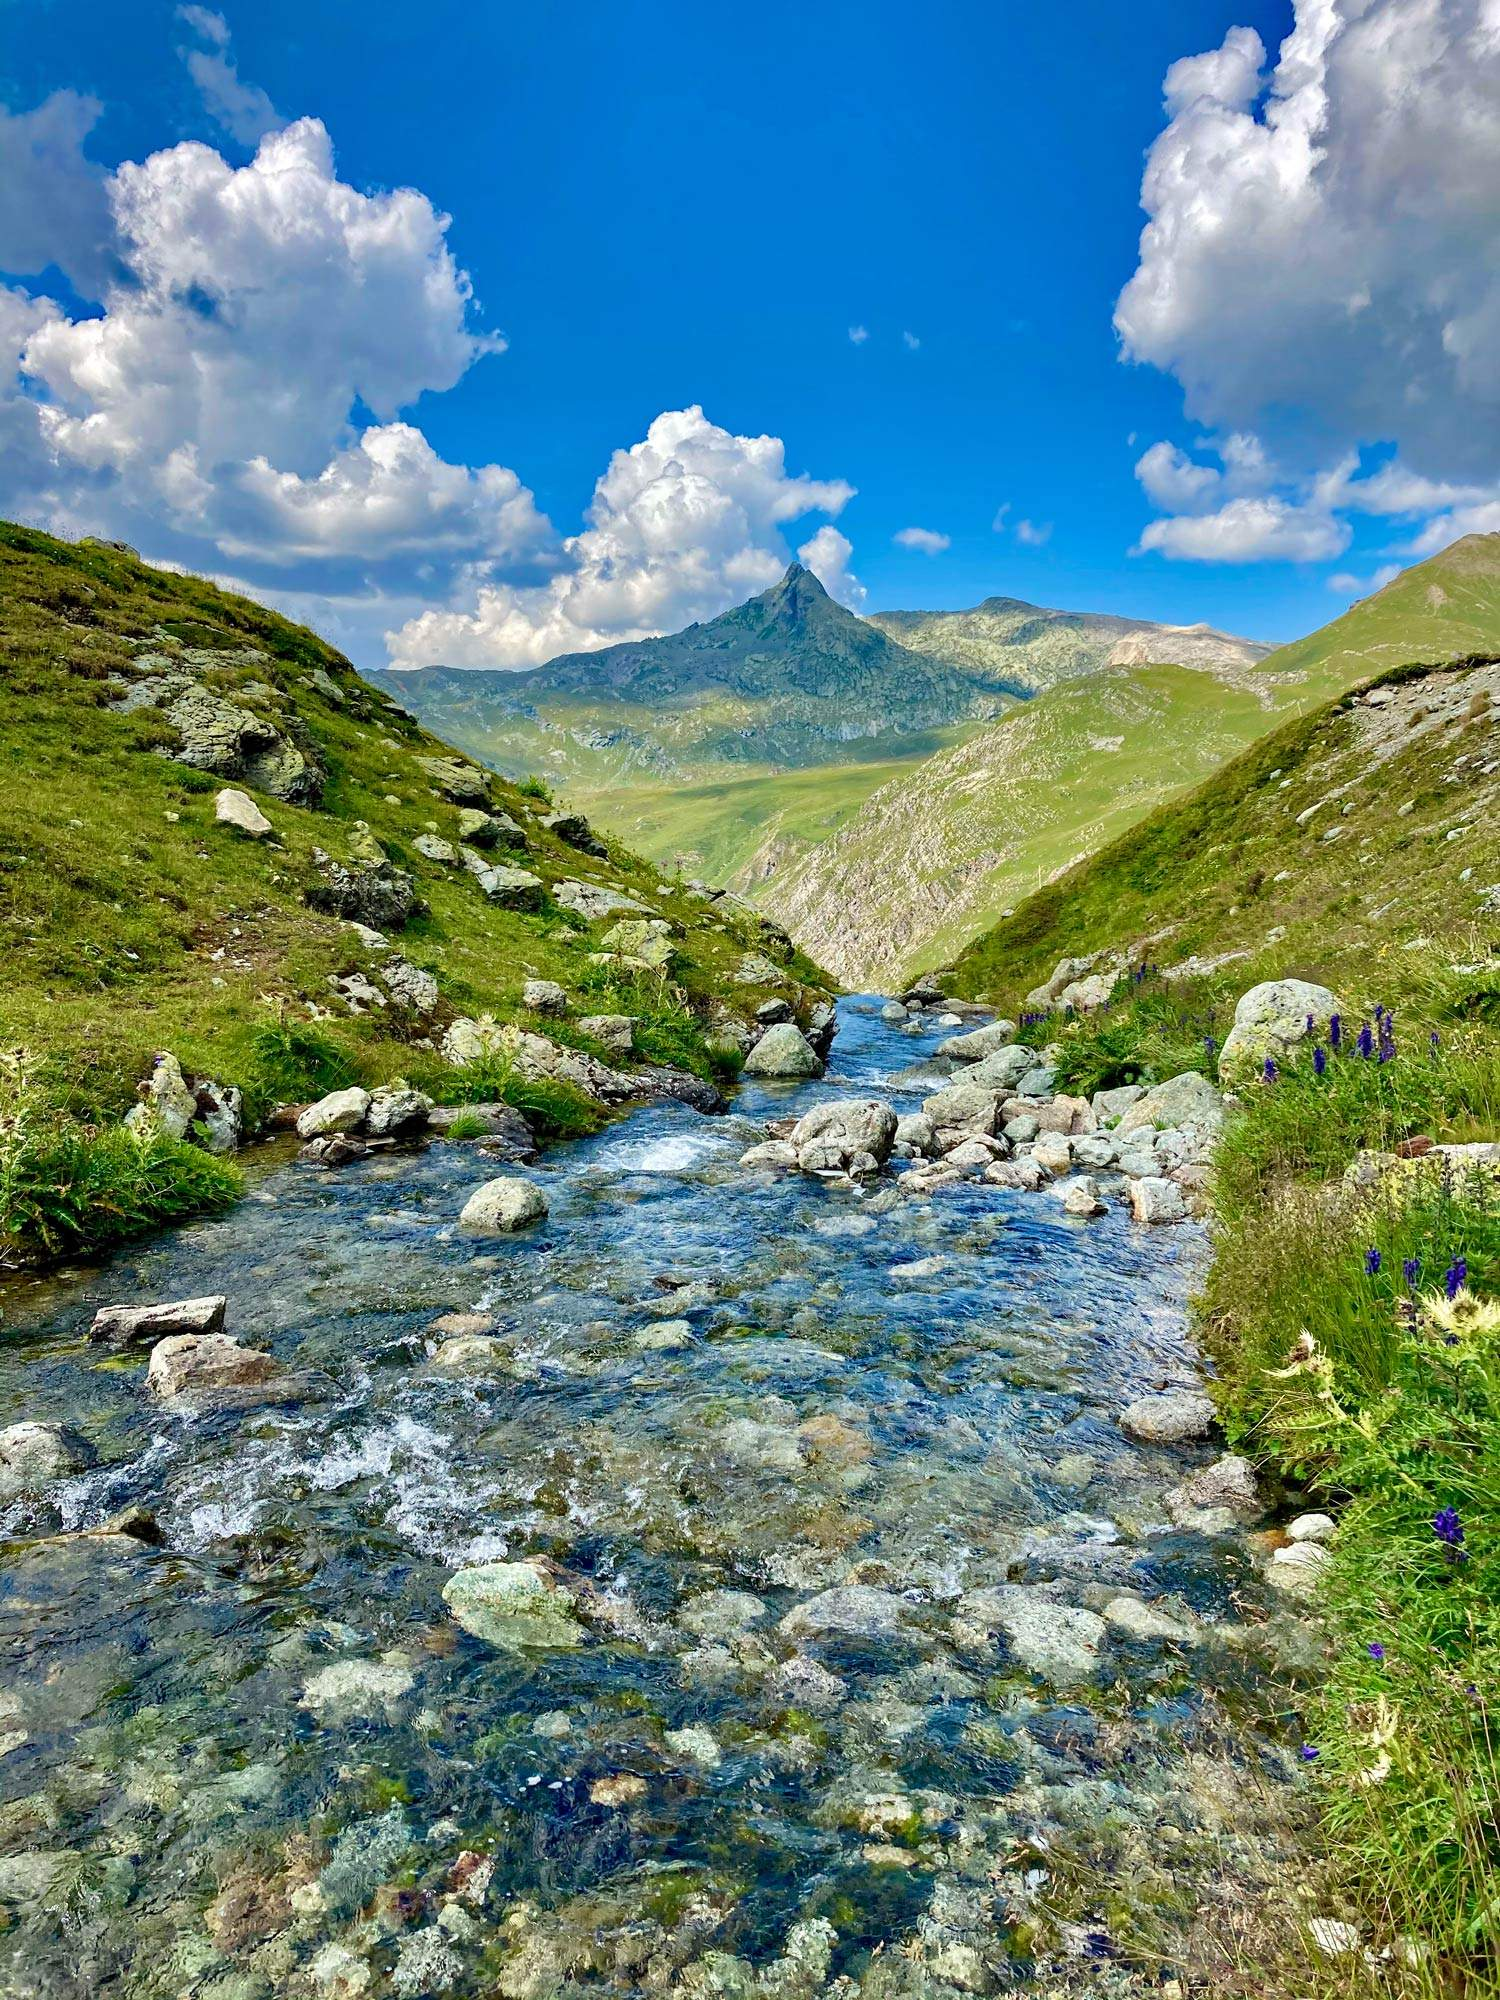
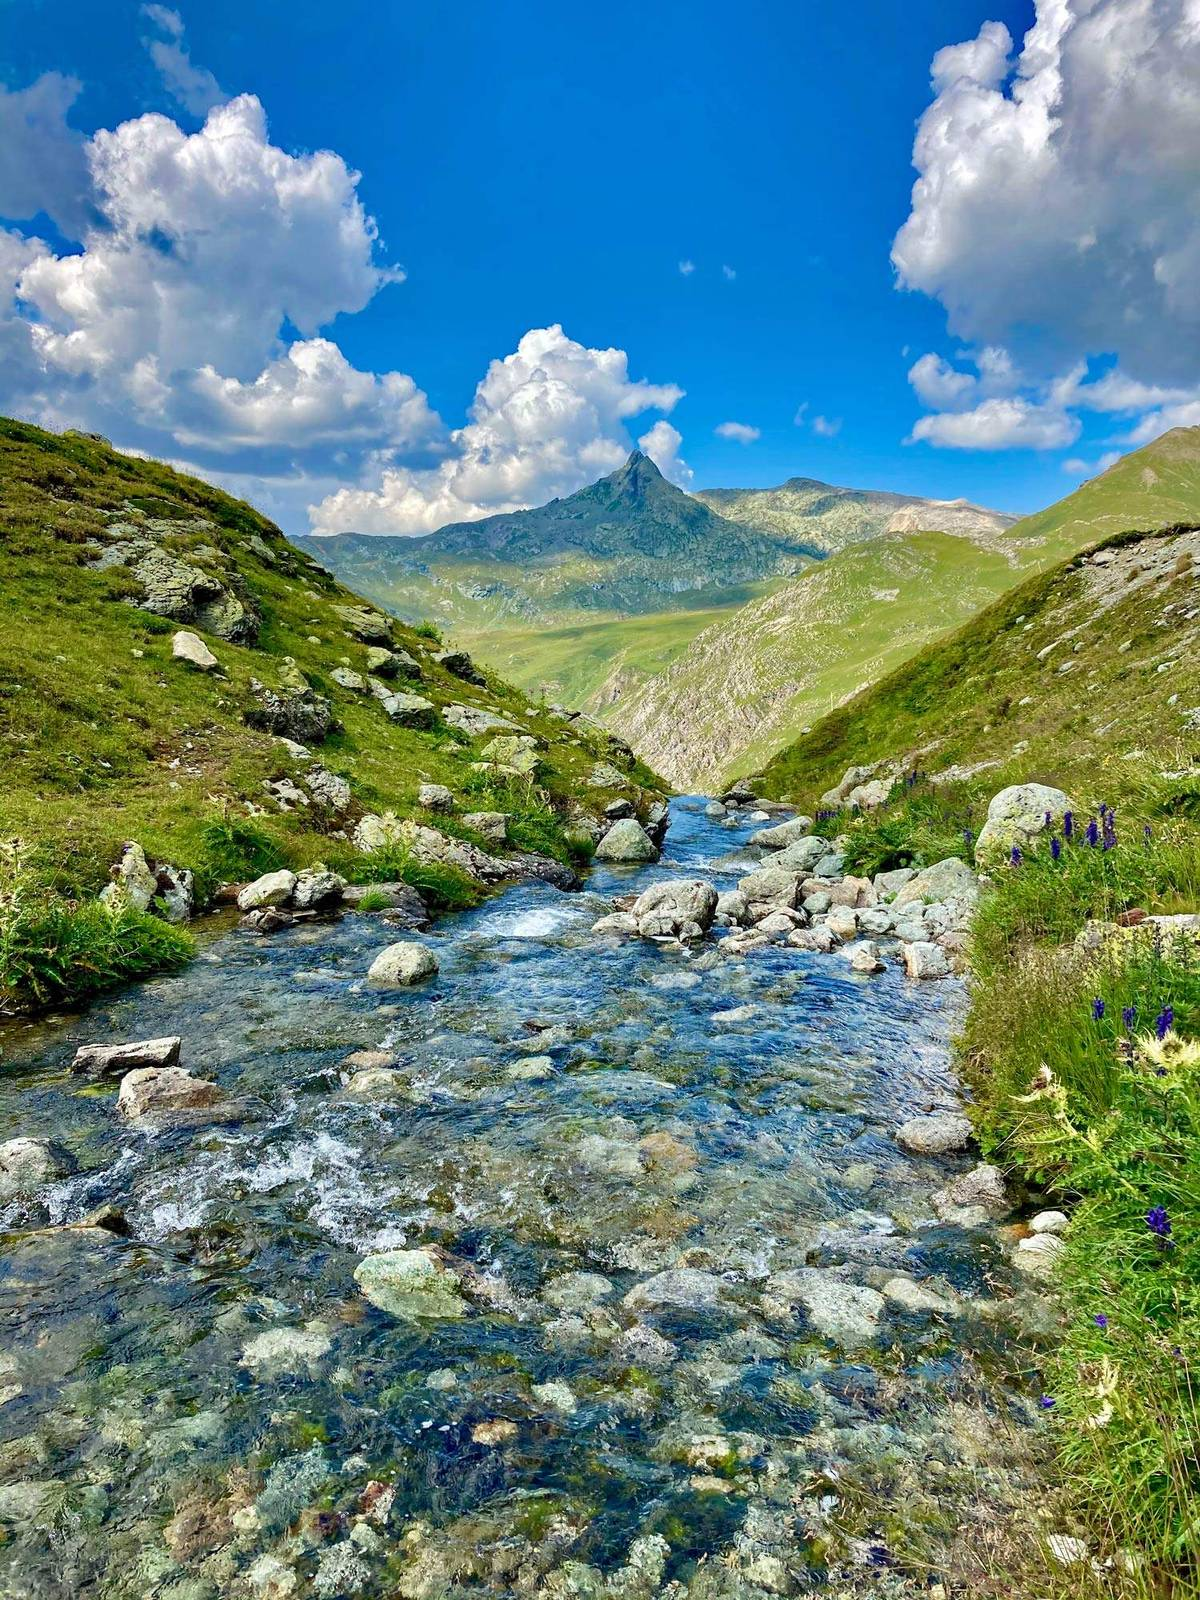
feat: visible FAQ, winter-arrival hint, security headers, meta hygiene
- FAQ section rendered visibly (details/summary, linen, before Kontakt),
  FAQPage JSON-LD derived from the same content.faq source; nav gains
  'Fragen' (verified: no header wrap at 768-880px)
- contact form shows winter-arrival notice for arrival dates Nov-Mar
  (road closed, winterbus/sledge/ski/foot from Savognin)
- Anreise section: travel times (Chur ~45min, Zurich ~2h to Savognin),
  public transport route, external Google Maps link (no embed, CSP-free)
- LodgingBusiness schema: checkinTime 15:00 / checkoutTime 10:00
- security headers via next.config headers(): nosniff, X-Frame-Options
  DENY, Referrer-Policy, Permissions-Policy, same-origin CSP
- OG images re-exported at standard 1200x630 (center-crop from hero
  sources, road kept visible), declarations updated; meta keywords
  removed (inert)
- region-bach.jpeg resized 1500x2000 -> 1200x1600 q70 (640KB -> 454KB)
- llms.txt: season lines match new price table, check-in/out added

Both editions verified via SEASON_OVERRIDE round-trip; viewports
1440/820/393 checked (no h-scroll, calendar past weeks inert).

diff --git a/src/app/page.tsx b/src/app/page.tsx
@@ -1,6 +1,7 @@
 import type { Metadata } from 'next'
 import { Anreise } from '@/components/Anreise'
 import { Familienleben } from '@/components/Familienleben'
+import { Faq } from '@/components/Faq'
 import { Footer } from '@/components/Footer'
 import { Gastgeber } from '@/components/Gastgeber'
 import { Header } from '@/components/Header'
@@ -16,7 +17,7 @@ import { Verfuegbarkeit } from '@/components/Verfuegbarkeit'
 import { Winterteaser } from '@/components/Winterteaser'
 import { Wohnen } from '@/components/Wohnen'
 import { SITE_DESCRIPTION, SITE_TITLE, SITE_URL } from '@/app/layout'
-import { anreise, chf, chfWoche, hero, kontakt, preisWerte } from '@/lib/content'
+import { faq, hero, kontakt, preisWerte } from '@/lib/content'
 import { getSeason } from '@/lib/season'
 
 // ISR: die Route rendert stündlich neu. Das ist die Voraussetzung dafür, dass die
@@ -32,13 +33,13 @@ export async function generateMetadata(): Promise<Metadata> {
       ? {
           url: '/images/og-image-winter.jpg',
           width: 1200,
-          height: 553,
+          height: 630,
           alt: hero.winter.alt,
         }
       : {
           url: '/images/og-image.jpg',
           width: 1200,
-          height: 553,
+          height: 630,
           alt: hero.sommer.alt,
         }
   return {
@@ -94,6 +95,10 @@ const jsonLd = {
   numberOfRooms: 3,
   numberOfBathroomsTotal: 2,
   maximumAttendeeCapacity: preisWerte.capacityMax,
+  // Wechseltag Samstag: Anreise ab 15 Uhr, Abreise bis 10 Uhr (sichtbar in der
+  // FAQ-Sektion, hier maschinenlesbar für die Suche).
+  checkinTime: '15:00',
+  checkoutTime: '10:00',
   petsAllowed: true,
   knowsLanguage: ['de-CH'],
   priceRange: `CHF ${preisWerte.min} bis ${preisWerte.max} pro Nacht`,
@@ -172,67 +177,20 @@ const jsonLd = {
   },
 }
 
+// FAQ-Markup aus derselben Quelle wie die sichtbare Sektion (Faq.tsx). Google
+// akzeptiert FAQPage nur mit sichtbarem Inhalt; aus content.faq abgeleitet
+// können Markup und Seite nicht auseinanderlaufen.
 const faqLd = {
   '@context': 'https://schema.org',
   '@type': 'FAQPage',
-  mainEntity: [
-    {
-      '@type': 'Question',
-      name: 'Für wie viele Personen ist das Maiensäss Acla Viglia?',
-      acceptedAnswer: {
-        '@type': 'Answer',
-        text: 'Das ganze Maiensäss bietet Platz für 2 bis 8 Personen: ein Doppelzimmer, ein Dreierzimmer und zwei Doppelmatratzen auf der Dachgalerie.',
-      },
+  mainEntity: faq.items.map((item) => ({
+    '@type': 'Question',
+    name: item.frage,
+    acceptedAnswer: {
+      '@type': 'Answer',
+      text: item.antwort,
     },
-    {
-      '@type': 'Question',
-      name: 'Wie komme ich im Sommer nach Radons?',
-      acceptedAnswer: {
-        '@type': 'Answer',
-        text: anreise.sommer.text,
-      },
-    },
-    {
-      '@type': 'Question',
-      name: 'Wie ist die Anreise im Winter?',
-      acceptedAnswer: {
-        '@type': 'Answer',
-        text: anreise.winter.text,
-      },
-    },
-    {
-      '@type': 'Question',
-      name: 'Was kostet das Maiensäss?',
-      acceptedAnswer: {
-        '@type': 'Answer',
-        text: `Das ganze Haus kostet ab ${chf(preisWerte.min)} pro Nacht für bis zu ${preisWerte.personsBase} Personen, je nach Saison bis ${chf(preisWerte.max)}. Eine Woche von Samstag bis Samstag sind ${preisWerte.nightsPerWeek} Nächte, also ab ${chfWoche(preisWerte.min)}. Jede weitere erwachsene Person ${chf(preisWerte.extraPerson)} pro Nacht. Nicht enthalten sind Endreinigung, Wäsche und Kurtaxen.`,
-      },
-    },
-    {
-      '@type': 'Question',
-      name: 'Sind Haustiere erlaubt?',
-      acceptedAnswer: {
-        '@type': 'Answer',
-        text: 'Ja, Haustiere sind nach Absprache erlaubt.',
-      },
-    },
-    {
-      '@type': 'Question',
-      name: 'Gibt es WLAN im Maiensäss?',
-      acceptedAnswer: {
-        '@type': 'Answer',
-        text: 'Ja, im Maiensäss ist WLAN vorhanden.',
-      },
-    },
-    {
-      '@type': 'Question',
-      name: 'Wie läuft die Buchung ab?',
-      acceptedAnswer: {
-        '@type': 'Answer',
-        text: 'Sie senden eine unverbindliche Anfrage über das Formular oder per E-Mail. Angela oder Gallus antworten persönlich.',
-      },
-    },
-  ],
+  })),
 }
 
 export default function Home() {
@@ -253,6 +211,7 @@ export default function Home() {
         <Verfuegbarkeit />
         <Anreise />
         <Winterteaser />
+        <Faq />
         <Kontakt />
       </main>
       <Footer />

diff --git a/src/components/Faq.tsx b/src/components/Faq.tsx
@@ -1,0 +1,41 @@
+import { faq } from '@/lib/content'
+
+// Sichtbare FAQ-Sektion. Inhalt kommt aus content.ts (faq) und speist dort
+// auch das FAQPage-JSON-LD in page.tsx: eine Quelle, kein Drift. Position im
+// Farbrhythmus: zwischen Winterteaser (parchment) und Kontakt (charcoal),
+// deshalb linen.
+export function Faq() {
+  return (
+    <section
+      id="faq"
+      className="bg-linen pt-14 md:pt-20 lg:pt-28 pb-14 md:pb-20 lg:pb-28"
+    >
+      <div className="max-w-3xl mx-auto px-6 md:px-12">
+        <div className="mb-10 md:mb-14">
+          <p className="eyebrow mb-5">{faq.eyebrow}</p>
+          <h2 className="font-serif text-3xl md:text-5xl">{faq.headline}</h2>
+        </div>
+
+        <div className="bg-cream rounded-2xl border border-brass/30 divide-y divide-brass/25">
+          {faq.items.map((item) => (
+            <details key={item.frage} className="group px-6 md:px-8">
+              <summary className="flex items-baseline justify-between gap-4 cursor-pointer list-none py-5 text-soapstone font-medium marker:content-none [&::-webkit-details-marker]:hidden">
+                <span>{item.frage}</span>
+                {/* Plus/Minus statt Chevron: kein Icon-Import, dreht sich per CSS. */}
+                <span
+                  aria-hidden="true"
+                  className="text-larch text-xl leading-none shrink-0 transition-transform group-open:rotate-45"
+                >
+                  +
+                </span>
+              </summary>
+              <p className="pb-6 text-ink/85 text-base leading-relaxed max-w-prose">
+                {item.antwort}
+              </p>
+            </details>
+          ))}
+        </div>
+      </div>
+    </section>
+  )
+}

diff --git a/next.config.ts b/next.config.ts
@@ -1,10 +1,43 @@
 import type { NextConfig } from 'next'
 
+// Alles same-origin (keine Drittskripte, Fonts self-hosted via next/font,
+// Vercel Analytics unter /_vercel/insights). 'unsafe-inline' braucht Next.js
+// für seine Inline-Skripte/Styles. data: deckt die Inline-SVG-Hintergründe
+// (Select-Pfeil) ab. Bei einer künftigen Karten-Einbettung frame-src ergänzen.
+const CSP = [
+  "default-src 'self'",
+  "script-src 'self' 'unsafe-inline'",
+  "style-src 'self' 'unsafe-inline'",
+  "img-src 'self' data:",
+  "font-src 'self'",
+  "connect-src 'self'",
+  "frame-ancestors 'none'",
+  "base-uri 'self'",
+  "form-action 'self'",
+].join('; ')
+
 const nextConfig: NextConfig = {
   images: {
     // AVIF zuerst (kleiner), WebP als Fallback. Verkleinert die ausgelieferten
     // Hero-/Galeriebilder zusätzlich gegenüber den grossen PNG-Quellen.
     formats: ['image/avif', 'image/webp'],
+  },
+  async headers() {
+    return [
+      {
+        source: '/(.*)',
+        headers: [
+          { key: 'X-Content-Type-Options', value: 'nosniff' },
+          { key: 'X-Frame-Options', value: 'DENY' },
+          { key: 'Referrer-Policy', value: 'strict-origin-when-cross-origin' },
+          {
+            key: 'Permissions-Policy',
+            value: 'camera=(), microphone=(), geolocation=()',
+          },
+          { key: 'Content-Security-Policy', value: CSP },
+        ],
+      },
+    ]
   },
   async redirects() {
     return [

diff --git a/src/app/layout.tsx b/src/app/layout.tsx
@@ -25,7 +25,7 @@ export const SITE_DESCRIPTION =
 const OG_IMAGE = {
   url: '/images/og-image.jpg',
   width: 1200,
-  height: 553,
+  height: 630,
   alt: 'Maiensäss Acla Viglia in Radons über Savognin im Sommer',
 }
 
@@ -40,23 +40,7 @@ export const metadata: Metadata = {
   applicationName: 'Acla Viglia Radons',
   authors: [{ name: 'Angela und Gallus Liesch-Lombris' }],
   creator: 'Angela und Gallus Liesch-Lombris',
-  keywords: [
-    'Maiensäss Radons',
-    'Maiensäss mieten',
-    'Ferienhaus Savognin',
-    'Ferienhaus Graubünden',
-    'Ferienhaus für Gruppen',
-    'Ferienhaus mit Hund',
-    'Sommerferien Savognin',
-    'Wandern Parc Ela',
-    'Skiferien Savognin',
-    'Ski-In Ski-Out Savognin',
-    'Parc Ela',
-    'Val Surses',
-    'Ferien Graubünden',
-    'Maiensäss Graubünden',
-    'Surses',
-  ],
+  // Bewusst ohne meta keywords: von keiner Suchmaschine mehr ausgewertet.
   alternates: { canonical: '/' },
   robots: {
     index: true,

diff --git a/src/components/ContactForm.tsx b/src/components/ContactForm.tsx
@@ -68,6 +68,15 @@ const todayIso = () => {
   return `${now.getFullYear()}-${String(now.getMonth() + 1).padStart(2, '0')}-${String(now.getDate()).padStart(2, '0')}`
 }
 
+// Anreise ausserhalb der Sommer-Zufahrt (November bis März): die Strasse nach
+// Radons ist gesperrt. Der Gast soll das VOR dem Absenden wissen, nicht erst
+// in der Antwortmail (sonst entstehen Anfragen mit falschen Erwartungen).
+function isWinterArrival(iso: string): boolean {
+  if (!iso) return false
+  const month = Number(iso.slice(5, 7))
+  return month >= 11 || month <= 3
+}
+
 export function ContactForm({ bookings }: { bookings: Booking[] }) {
   const [form, setForm] = useState<FormState>(INITIAL)
   const [touched, setTouched] = useState<Record<string, boolean>>({})
@@ -246,6 +255,15 @@ export function ContactForm({ bookings }: { bookings: Booking[] }) {
       {errors.range && (
         <p className="mt-4 px-4 py-3 rounded-lg bg-[#B1564A]/10 border border-[#B1564A]/30 text-sm text-soapstone">
           {errors.range}
+        </p>
+      )}
+
+      {isWinterArrival(form.anreise) && (
+        <p className="mt-4 px-4 py-3 rounded-lg bg-linen border border-brass/40 text-sm text-soapstone leading-relaxed">
+          <span className="font-semibold">Winteranreise:</span> Die Strasse
+          nach Radons ist gesperrt. Sie reisen ab Savognin mit dem Winterbus,
+          mit Skiern, Schlitten oder zu Fuss an. Einkaufen können Sie vorher
+          in Savognin.
         </p>
       )}
 

diff --git a/src/components/Anreise.tsx b/src/components/Anreise.tsx
@@ -17,6 +17,19 @@ export function Anreise() {
         <p className="text-ink/85 text-base md:text-lg leading-relaxed">
           {a.text}
         </p>
+        {/* Lage und Fahrzeiten sind saison-unabhängig. Externer Kartenlink
+            statt Einbettung: kein Drittanbieter-Request, kein CSP-Zusatz. */}
+        <p className="mt-5 text-ink/85 text-base md:text-lg leading-relaxed">
+          {anreise.lage.text}
+        </p>
+        <a
+          href={anreise.lage.mapHref}
+          target="_blank"
+          rel="noopener noreferrer"
+          className="mt-4 inline-block text-larch underline underline-offset-2 hover:text-soapstone transition-colors"
+        >
+          {anreise.lage.mapLabel}
+        </a>
       </div>
     </section>
   )

diff --git a/src/app/llms.txt/route.ts b/src/app/llms.txt/route.ts
@@ -34,10 +34,10 @@ Positionierung: Ein Maiensäss. Geführt wie ein gutes Hotel. Kein Hotel, kein A
 
 ## Preise (ganzes Haus, bis ${preisWerte.personsBase} Personen)
 Eine Woche ist Samstag bis Samstag, also ${preisWerte.nightsPerWeek} Nächte.
-- Nebensaison Sommer: ${chf(preisWerte.min)} pro Nacht, ${chfWoche(preisWerte.min)} pro Woche
-- Juli und August: ${chf(preisWerte.sommerHoch)} pro Nacht, ${chfWoche(preisWerte.sommerHoch)} pro Woche
-- Nebensaison Winter: ${chf(preisWerte.winterNeben)} pro Nacht, ${chfWoche(preisWerte.winterNeben)} pro Woche
-- Hochsaison Winter sowie Weihnachten, Neujahr, Februar: ${chf(preisWerte.max)} pro Nacht, ${chfWoche(preisWerte.max)} pro Woche
+- Nebensaison Sommer (Ende Mai bis Juni, September und Oktober): ${chf(preisWerte.min)} pro Nacht, ${chfWoche(preisWerte.min)} pro Woche
+- Hauptsaison Sommer (Juli und August): ${chf(preisWerte.sommerHoch)} pro Nacht, ${chfWoche(preisWerte.sommerHoch)} pro Woche
+- Nebensaison Winter (November bis vor Weihnachten, Januar und März): ${chf(preisWerte.winterNeben)} pro Nacht, ${chfWoche(preisWerte.winterNeben)} pro Woche
+- Hochsaison Winter (Weihnachten, Neujahr und Februar): ${chf(preisWerte.max)} pro Nacht, ${chfWoche(preisWerte.max)} pro Woche
 - Jede weitere erwachsene Person: ${chf(preisWerte.extraPerson)} pro Nacht
 - Im Preis enthalten: MWST, Strom und Wasser, WLAN, Holz für Cheminée und Kochherd, SodaStream am Bergquellwasser, eine Flasche Prosecco und eine Flasche Amarone bei Anreise
 - Zusatzkosten: Endreinigung ${chf(preisWerte.cleaning)} pauschal, Bett- und Frotteewäsche ${chf(preisWerte.laundry)} pro Woche und Person, Kurtaxen (Erwachsene ${chf(preisWerte.taxAdult)} pro Logiernacht, Kinder 6 bis 16 Jahre ${chf(preisWerte.taxChild)} pro Logiernacht)
@@ -47,6 +47,7 @@ Eine Woche ist Samstag bis Samstag, also ${preisWerte.nightsPerWeek} Nächte.
 ## Buchung und Kontakt
 - Verfügbarkeit prüfen (Belegungskalender) und unverbindlich anfragen über das Formular: https://aclavigliaradons.ch
 - Anfragen werden persönlich von Angela oder Gallus beantwortet
+- Wechseltag Samstag: Anreise ab 15 Uhr, Abreise bis 10 Uhr
 - E-Mail: ${kontakt.email}
 - Telefon: ${kontakt.phone}
 - Gastgeber: ${kontakt.hosts} (ehemals Hotel Restaurant Rätia, Filisur)

diff --git a/src/lib/content.ts b/src/lib/content.ts
@@ -9,6 +9,7 @@ export function getNavigation(season: Season) {
     { label: 'Galerie', href: '/galerie' },
     { label: 'Gastgeber', href: '#gastgeber' },
     { label: 'Preise', href: '#preise' },
+    { label: 'Fragen', href: '#faq' },
     { label: 'Anfrage', href: '#kontakt' },
   ]
 }